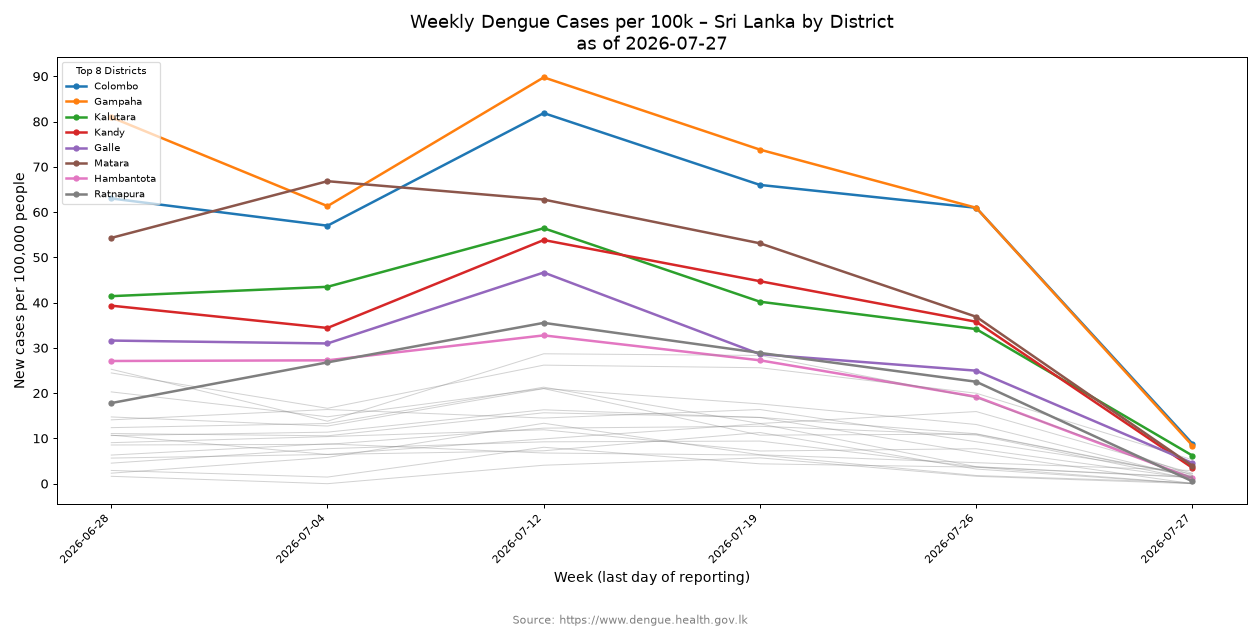
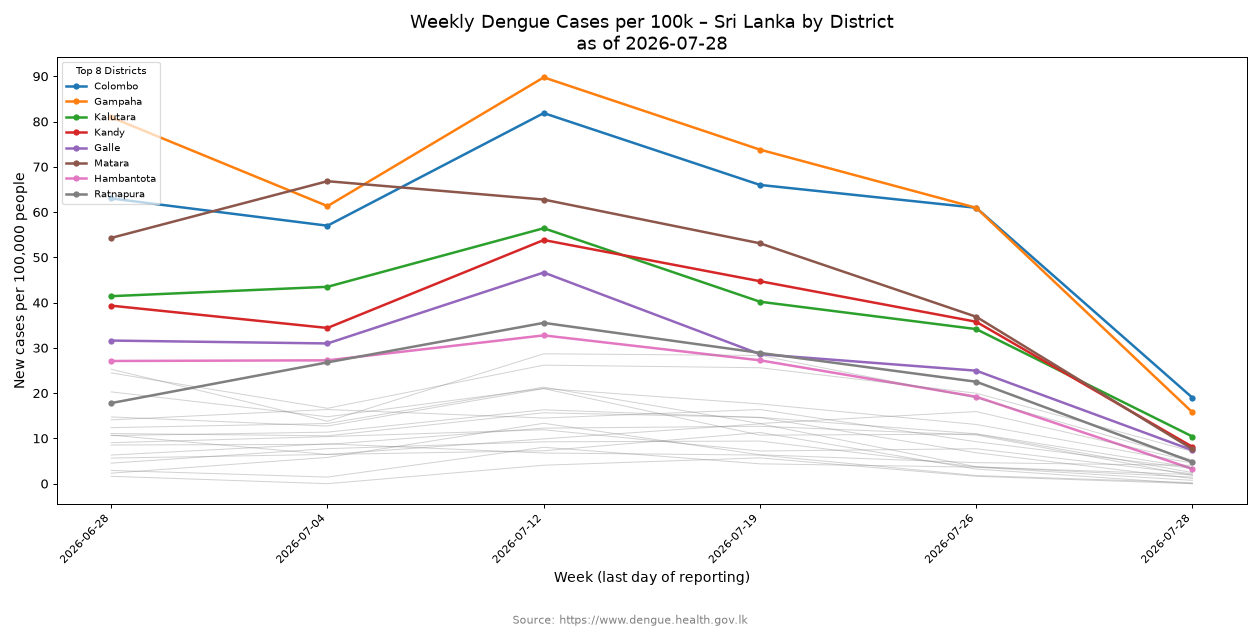
🤖 [pipeline.yml] 2026-07-29-0536

diff --git a/README.md b/README.md
@@ -287,6 +287,7 @@ As of 2026-07-19
 
 ### [National Dengue Control Unit - Daily Update](data/NDCUDaily)
 
+- [2026-07-28](data/NDCUDaily/2026/2026-07/2026-07-28)
 - [2026-07-27](data/NDCUDaily/2026/2026-07/2026-07-27)
 - [2026-07-26](data/NDCUDaily/2026/2026-07/2026-07-26)
 - [2026-07-25](data/NDCUDaily/2026/2026-07/2026-07-25)
